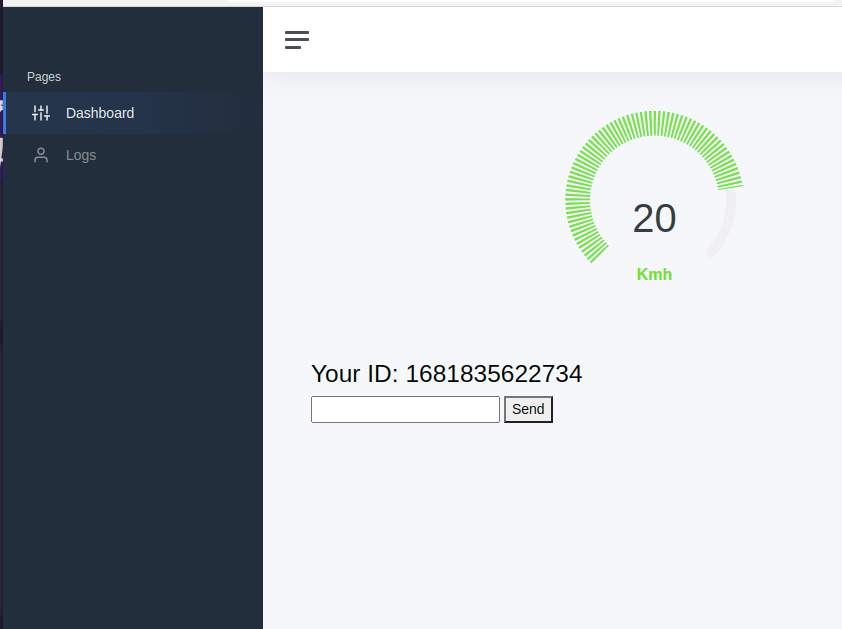
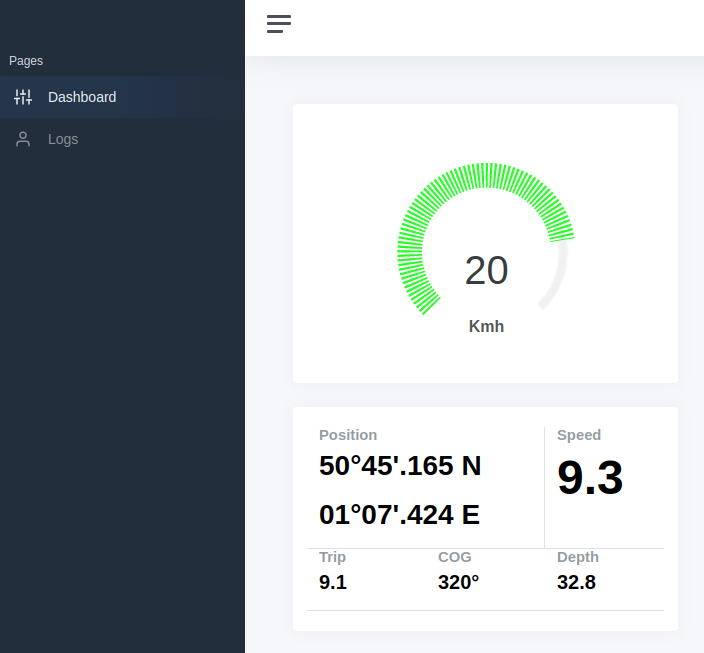
display 2

diff --git a/frontend/templates/index.html b/frontend/templates/index.html
@@ -73,25 +73,73 @@
 				</div>
 			</nav>
 
-        		<div id="chart1">
-                </div>
+
 
 		<main class="content">
 
             <div class="container-fluid p-0">
 
+					<div class="row">
+						<div class="col-md-6">
+							<div class="card">
+								<div class="card-body">
+									<div class="row">
+										<div id="chart1"> </div>
+									</div>
+								</div>
+							</div>
+
+							<div class="card">
+								<div class="card-body">
+									<div class="container">
+									  <div class="row">
+										<div class="col-8 border border-start-0 border-top-0">
+											<h5 class="card-title mb-0">Position</h5>
+
+											<h2 class="mt-1 mb-3">50°45'.165 N</h2>
+											<h2 class="mt-1 mb-3">01°07'.424 E</h2>
+										</div>
+										<div class="col-4 border border-start-0 border-top-0 border-end-0">
+											<h5 class="card-title mb-0">Speed</h5>
+												<h1 class="mt-1 mb-3">9.3</h1>
+										</div>
+									  	</div>
+
+									    <div class="row">
+											<div class="col-4 border border-start-0 border-top-0 border-end-0">
+												<h5 class="card-title mb-0">Trip</h5>
+												<h3 class="mt-1 mb-3">9.1</h3>
+											</div>
+											<div class="col-4 border border-start-0 border-top-0 border-end-0">
+												<h5 class="card-title mb-0">COG</h5>
+												<h3 class="mt-1 mb-3">320°</h3>
+											</div>
+											<div class="col-4 border border-start-0 border-top-0 border-end-0">
+												<h5 class="card-title mb-0">Depth</h5>
+												<h3 class="mt-1 mb-3">32.8</h3>
+											</div>
+									  	</div>
+
+									</div>
+							    </div>
+
+							</div> <!-- /card -->
 
 
-                <h2>: <span id="ws-id"></span></h2>
-                <form action="" onsubmit="sendMessage(event)">
-                    <input type="text" id="messageText" autocomplete="off"/>
-                    <button>Send</button>
-                </form>
-                <ul id='messages'>
-                </ul>
+							<h2>: <span id="ws-id"></span></h2>
+							<form action="" onsubmit="sendMessage(event)">
+								<input type="text" id="messageText" autocomplete="off"/>
+								<button>Send</button>
+							</form>
+							<ul id='messages'>
+							</ul>
 
-                <div class="wrapper">
+							<div class="wrapper"></div>
 
+							</div> <!-- /col -->
+						</div>	<!-- /row -->
+
+					</div> <!-- /container -->
 
         </main>
 
@@ -114,5 +162,7 @@
             }
         </script>
         <script src="/static/js/custom.js" ></script>
+		</div>
+		</div>
     </body>
 </html>

diff --git a/frontend/static/css/custom.css b/frontend/static/css/custom.css
@@ -174,3 +174,22 @@ a.link {
   stroke-dasharray: none;
   stroke-width: 5;
 }
+
+.card: {
+    background-color: #555,
+}
+
+h1 {
+    font-size: 3rem;
+    font-weight: bolder;
+}
+
+h2 {
+    font-size: 1.75rem;
+    font-weight: bolder;
+}
+
+h3 {
+    font-size: 1.25rem;
+    font-weight: bolder;
+}

diff --git a/frontend/static/js/custom.js b/frontend/static/js/custom.js
@@ -39,7 +39,7 @@ var options1 = {
         name: {
           show: true,
           fontSize: '16px',
-          color: undefined,
+          color: '#555',
           offsetY: 80
         },
         value: {
